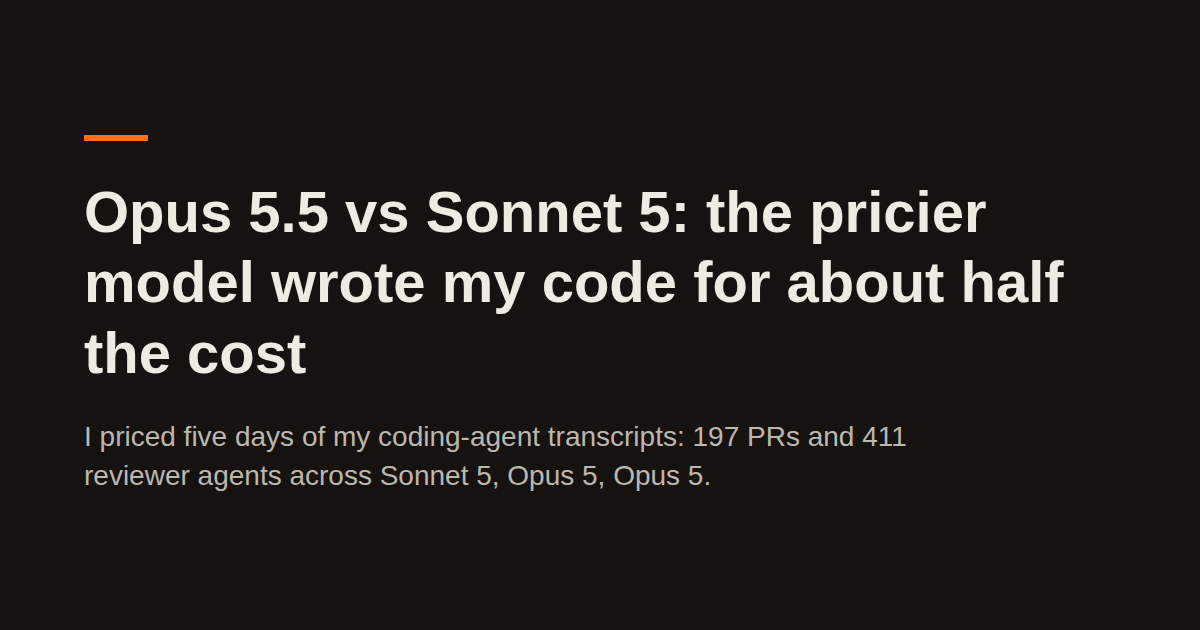
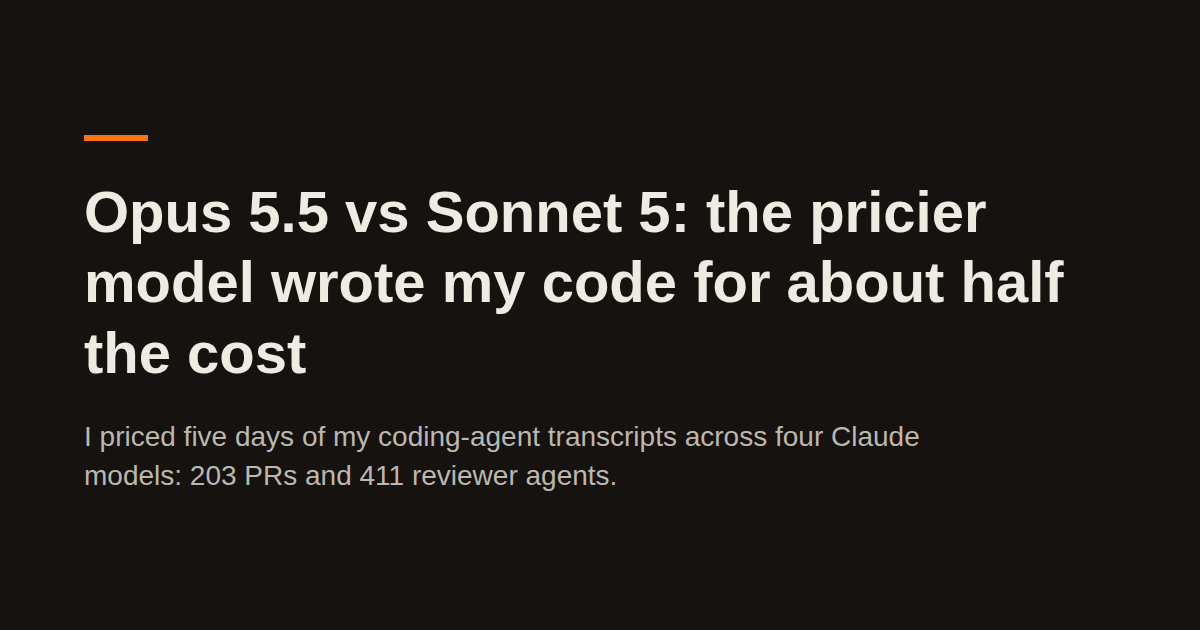
fix(blog): correct counts and scope claims in cost post
203 PRs, not 197 units; the all-fail figure covers one six-hour window;
the preview card no longer cuts the description at "Opus 5."; two
overclaims narrowed and the missing Opus fix-round cost disclosed.

Changed region(s): [[0.0617, 0.6635, 0.7708, 0.7841]]

diff --git a/lib/data.ts b/lib/data.ts
@@ -748,7 +748,7 @@ export const blogArticles: BlogArticle[] = [
       "Opus 5.5 vs Sonnet 5: the pricier model wrote my code for about half the cost",
     slug: "opus-5-5-vs-sonnet-5-agent-costs",
     description:
-      "I priced five days of my coding-agent transcripts: 197 PRs and 411 reviewer agents across Sonnet 5, Opus 5, Opus 5.5 and Fable 5.1. Opus 5.5 lists at twice Sonnet's price, yet cost about half as much per changed line once I compared like with like. Here is why, and what I changed.",
+      "I priced five days of my coding-agent transcripts across four Claude models: 203 PRs and 411 reviewer agents. Opus 5.5 lists at twice Sonnet 5's price, yet cost about half as much per changed line once I compared like with like. Here is why, and what I changed.",
     readTime: 8,
     publishedAt: "2026-09-26",
     previewImageURL: "cover.svg",

diff --git a/content/blog/opus-5-5-vs-sonnet-5-agent-costs.md b/content/blog/opus-5-5-vs-sonnet-5-agent-costs.md
@@ -1,6 +1,6 @@
 ---
 title: "Opus 5.5 vs Sonnet 5: the pricier model wrote my code for about half the cost"
-description: "I priced five days of my coding-agent transcripts: 197 PRs and 411 reviewer agents across Sonnet 5, Opus 5, Opus 5.5 and Fable 5.1. Opus 5.5 lists at twice Sonnet's price, yet cost about half as much per changed line once I compared like with like. Here is why, and what I changed."
+description: "I priced five days of my coding-agent transcripts across four Claude models: 203 PRs and 411 reviewer agents. Opus 5.5 lists at twice Sonnet 5's price, yet cost about half as much per changed line once I compared like with like. Here is why, and what I changed."
 publishedAt: "2026-09-26"
 readTime: 8
 previewImageURL: "cover.svg"
@@ -24,7 +24,7 @@ whether a test goes red, and checks the PR description's claims. Nothing merges
 until a reviewer passes it. A failed review ("needs-fix") goes back to the
 implementer for another round.
 
-Between September 20 and 25 that produced 197 implementer PRs and 411 reviewer
+Between September 20 and 25 that produced 203 implementer PRs and 411 reviewer
 agents across four models. I pay a flat subscription, so the dollars below are
 API list prices, used as a measure of how much of my usage limit each agent
 burned.
@@ -57,9 +57,10 @@ So the price per token matters less than you'd think. What matters is how many
 steps an agent takes and how much it carries through each one.
 
 Cached reads cost the same $0.20 per million tokens on Opus 5.5 and Sonnet 5.
-Only input, output and cache writes cost twice as much on Opus. For my
-implementers, cached reads were about three quarters of the bill, so the same
-call costs only about 25% more on Opus 5.5, not twice as much.
+Only input, output and cache writes cost twice as much on Opus. For my Sonnet
+implementers, cached reads were about three quarters of the bill (the median
+lane), so the same call costs only about 25% more on Opus 5.5, not twice as
+much.
 
 ![The same agent call priced on each model. Cached reads, three quarters of Sonnet's cost, are the same price on both, so Opus 5.5 costs 1.25 times as much per call, not 2 times](/img/blog/opus-5-5-vs-sonnet-5-agent-costs/per-call-price.svg)
 
@@ -107,23 +108,24 @@ the first review, against Sonnet's 97.
 
 **The saving is in the fix rounds.** In the September 24 window, fix rounds were
 about 71% of implementer spend. A Sonnet implementer that had already grown a
-900K context paid $5–6 for a small last-round fix, because it re-read everything
-to make it. Opus carried a smaller context (a peak of 170K against Sonnet's
-246K), and in the lanes logged so far it needed fewer rounds.
+900K context paid $5.60–6.40 for a small last-round fix, because it re-read
+everything to make it. Opus carried a smaller context (a median peak of 170K
+against Sonnet's 246K), and in the 5 Opus lanes of my controlled experiment it
+needed a median of 2 review rounds against Sonnet's 3.
 
-### Nobody passes the first review
+### Most PRs fail their first review
 
 On ordinary code, most PRs from every model failed their first review. Sonnet 5
-and Opus 5 passed 12–20% of the time. On September 24, all 20 PRs that changed
-production code failed their first review.
+and Opus 5 passed 12–20% of the time. In one six-hour window on September 24,
+all 20 PRs that changed production code failed their first review.
 
 Opus 5.5's raw first-review pass rate looks great: 10 of 18. But almost all of
 those passes were auth work that I had routed to Opus and that Fable reviewed.
 On other code, Opus 5.5 passed 1 of 7, which is too few to say anything. Look at
-why PRs fail, and the model matters less: at least 7 of those 20 failures on
-September 24 were tests that stayed green on broken code, or a PR description
-that claimed something untrue. A smarter model doesn't fix that; a stricter
-process does.
+why PRs fail, and the model matters less: at least 7 of those 20 failures were
+tests that stayed green on broken code, or a PR description that claimed
+something untrue. I don't expect a smarter model to fix that, so I changed the
+process instead; it's too early to know whether that worked.
 
 ## More reasoning effort cost more and bought nothing
 
@@ -147,7 +149,7 @@ proof. It was enough to stop me guessing effort up front.
 On the same kind of PR in the same days, with both priced at Opus 5.5's rates, a
 review round cost $1.36 on Opus 5.5 and $1.50 on Fable 5.1: about the same
 amount of work. At real list prices, Fable cost about 2.7 times more, and it was
-slower (8 minutes a round against 6).
+slower (a median of 9 minutes a round against 6.5).
 
 Fable wasn't stricter either. On Sonnet-written code in the same days, it
 blocked 17 of 19 first submissions, and Opus 5.5 blocked 74 of 92. That is no
@@ -168,7 +170,7 @@ added that class of bug to the reviewer's checklist.
   second failed review names a real behaviour defect.
 - **Compact at 400K tokens instead of about 967K.** The single largest saving in
   the analysis: it caps how much every call has to re-read. Reviewers, which
-  peak around 277K, never hit it.
+  peaked at 277K in the window I measured, never hit it.
 - **A 1-hour cache for reviewers.** Re-reviews usually arrive after the default
   5-minute cache has expired, so the reviewer paid to rebuild its whole context.
 - **Proof for every test.** Each test a PR adds or changes needs a line in the
@@ -181,7 +183,12 @@ It isn't a controlled experiment. I chose which tasks went to Opus, the sample
 is small (19 Opus 5.5 PRs), and list prices are a stand-in for subscription
 usage. I started a fair split, with every other lane on Opus 5.5 regardless of
 the task, and stopped it early: the like-for-like comparison and the token
-counts pointed the same way, and Opus was probably no more expensive.
+counts pointed the same way: Opus 5.5 was cheaper, probably around half, and at
+worst no more expensive.
+
+One gap favours Opus in these numbers. In 3 of the 7 Opus PRs that failed their
+first review, the lead agent made the fix itself, so that fix's cost is missing
+from Opus's total. That happened in only 1 of 89 Sonnet cases.
 
 The lesson I'd keep even if the model prices change next month: in agent work,
 you pay for steps and context, not for tokens. Measure calls and context per
